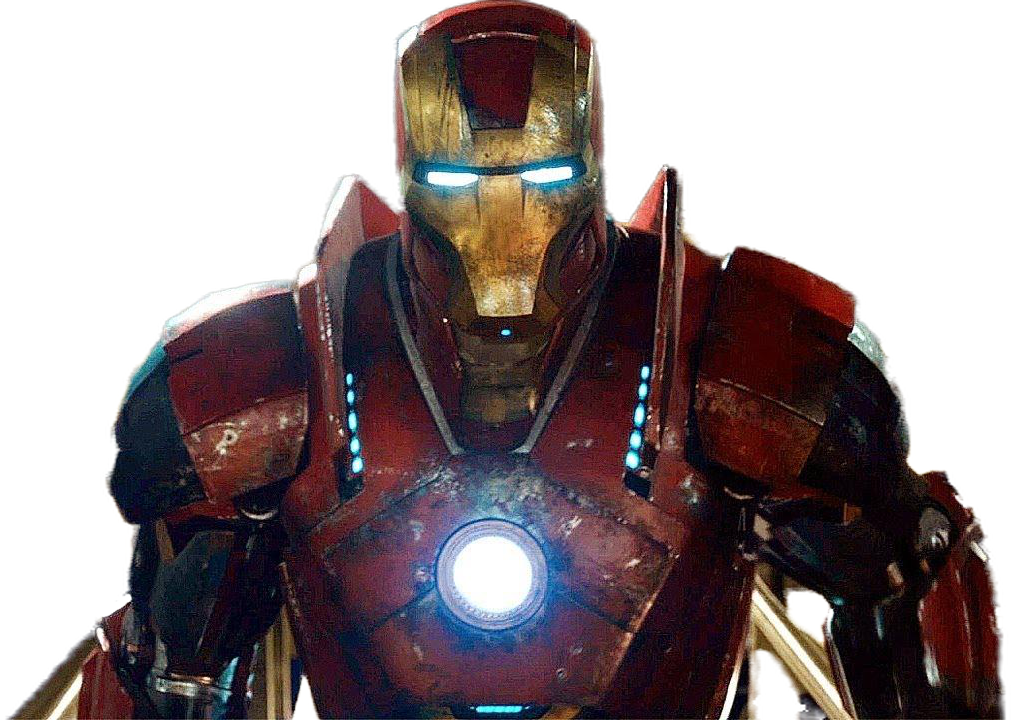
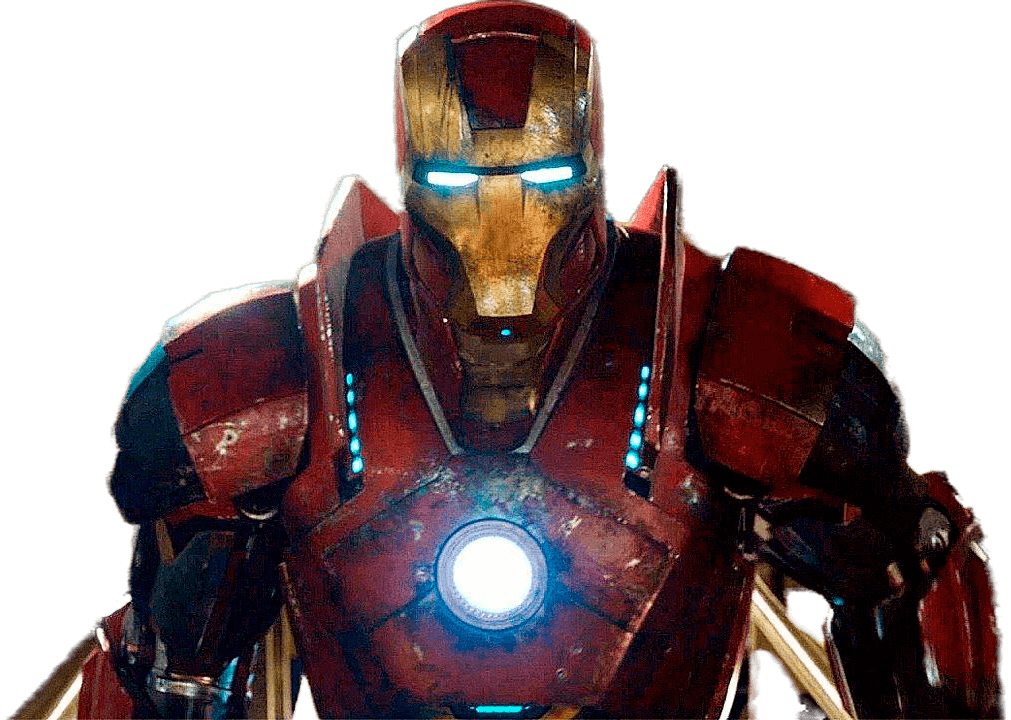
compress img

diff --git a/7/index.html b/7/index.html
@@ -23,6 +23,8 @@
 
     <link rel="stylesheet" href="css/media.css">
 
+    <script src="https://cdnjs.cloudflare.com/ajax/libs/gsap/3.7.1/gsap.min.js" integrity="sha512-UxP+UhJaGRWuMG2YC6LPWYpFQnsSgnor0VUF3BHdD83PS/pOpN+FYbZmrYN+ISX8jnvgVUciqP/fILOXDjZSwg==" crossorigin="anonymous" referrerpolicy="no-referrer"></script>
+
     <script src="./js/main.js"></script>
     <script src="./js/network.js"></script>
 
@@ -127,7 +129,7 @@
             <div class="table-row">
                 <div class="table-item">
                     <span>MARK I</span>
-                    <img src="../img/armor/1.jpg" alt="preview">
+                    <img src="../img/armor/1.webp" alt="preview">
                 </div>
                 <div class="table-item">INITIAL</div>
                 <div class="table-item">TONY STARK</div>

diff --git a/7/css/items/start.css b/7/css/items/start.css
@@ -43,7 +43,7 @@ main{
     height: 100%;  
     opacity: .27;
     background-color: var(--marvel-red);
-    background-image: url('../../../img/comics-bg.jpg');
+    background-image: url('../../../img/comics-bg.webp');
     background-size: cover;
     background-position: center bottom;
     background-blend-mode: multiply;
